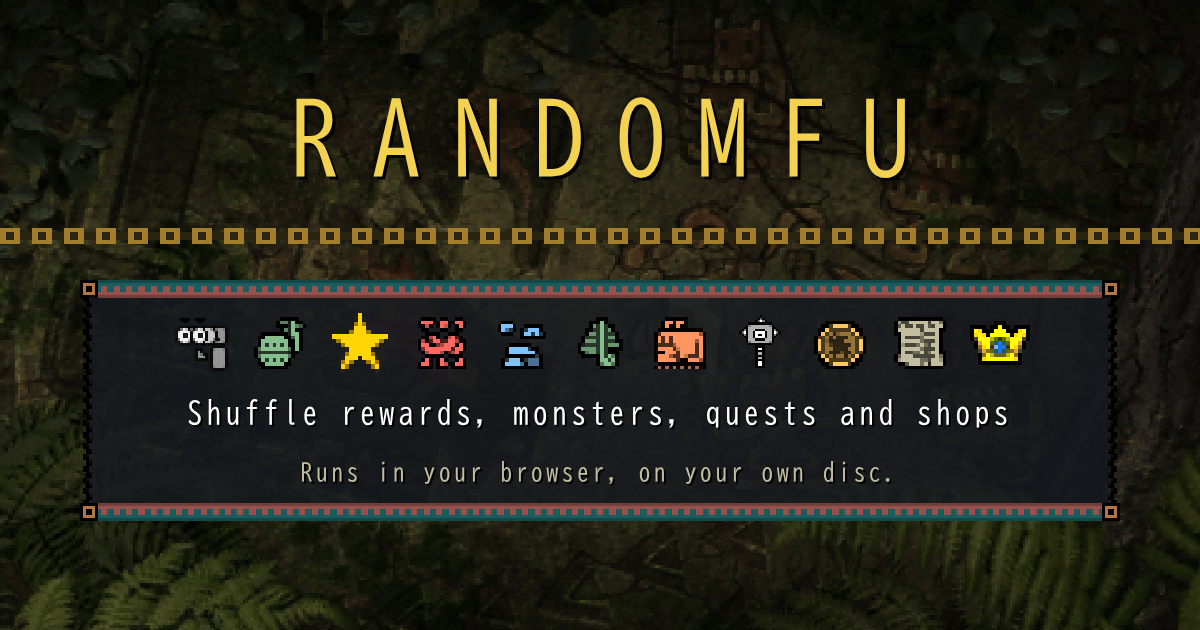
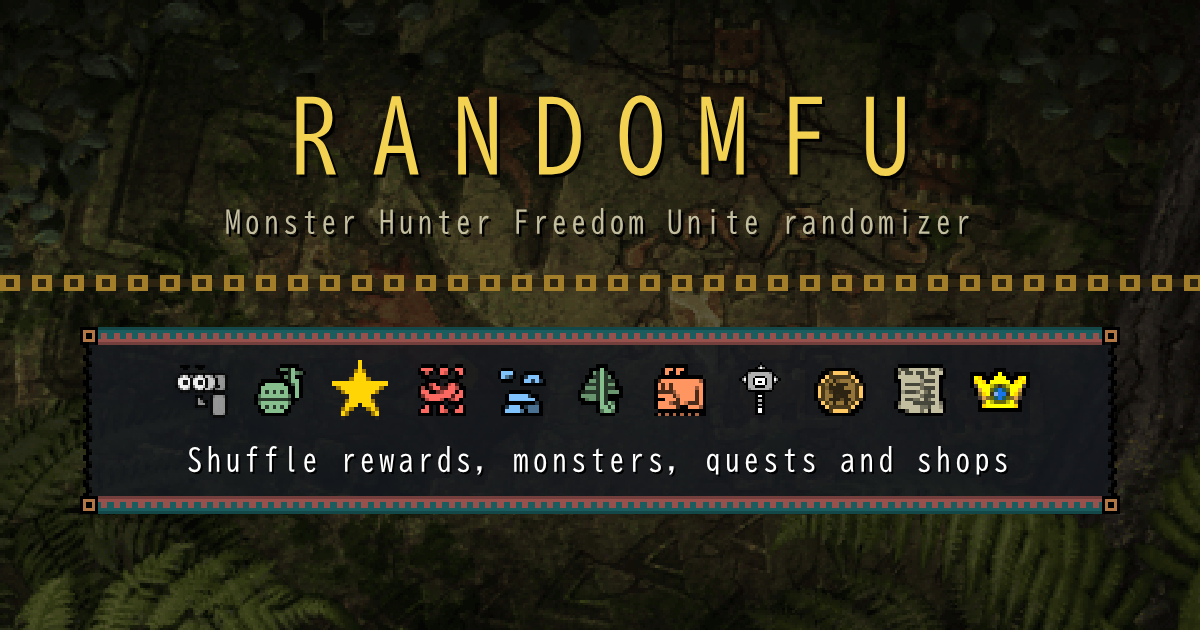
randomfu: social card keeps the subtitle, drops the in-frame note

diff --git a/apps/randomfu/index.html b/apps/randomfu/index.html
@@ -26,7 +26,7 @@
     <meta property="og:image:height" content="630" />
     <meta
       property="og:image:alt"
-      content="randomfu: shuffle rewards, monsters, quests and shops. Runs in your browser, on your own disc."
+      content="randomfu, Monster Hunter Freedom Unite randomizer: shuffle rewards, monsters, quests and shops."
     />
     <meta name="twitter:card" content="summary_large_image" />
     <!-- Everything runs here: the page can't send the disc, or anything else, anywhere. -->
